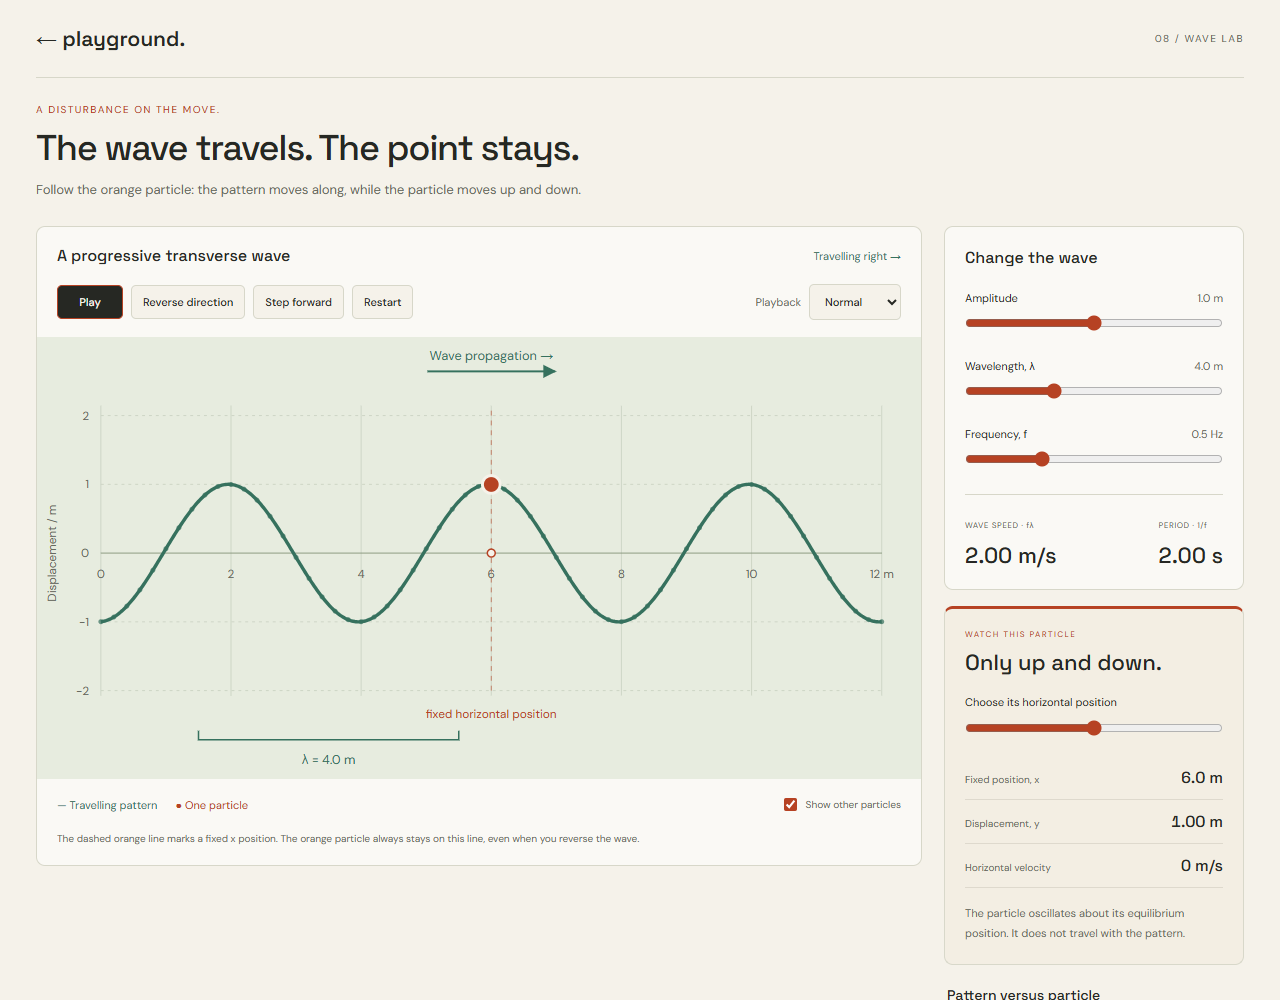
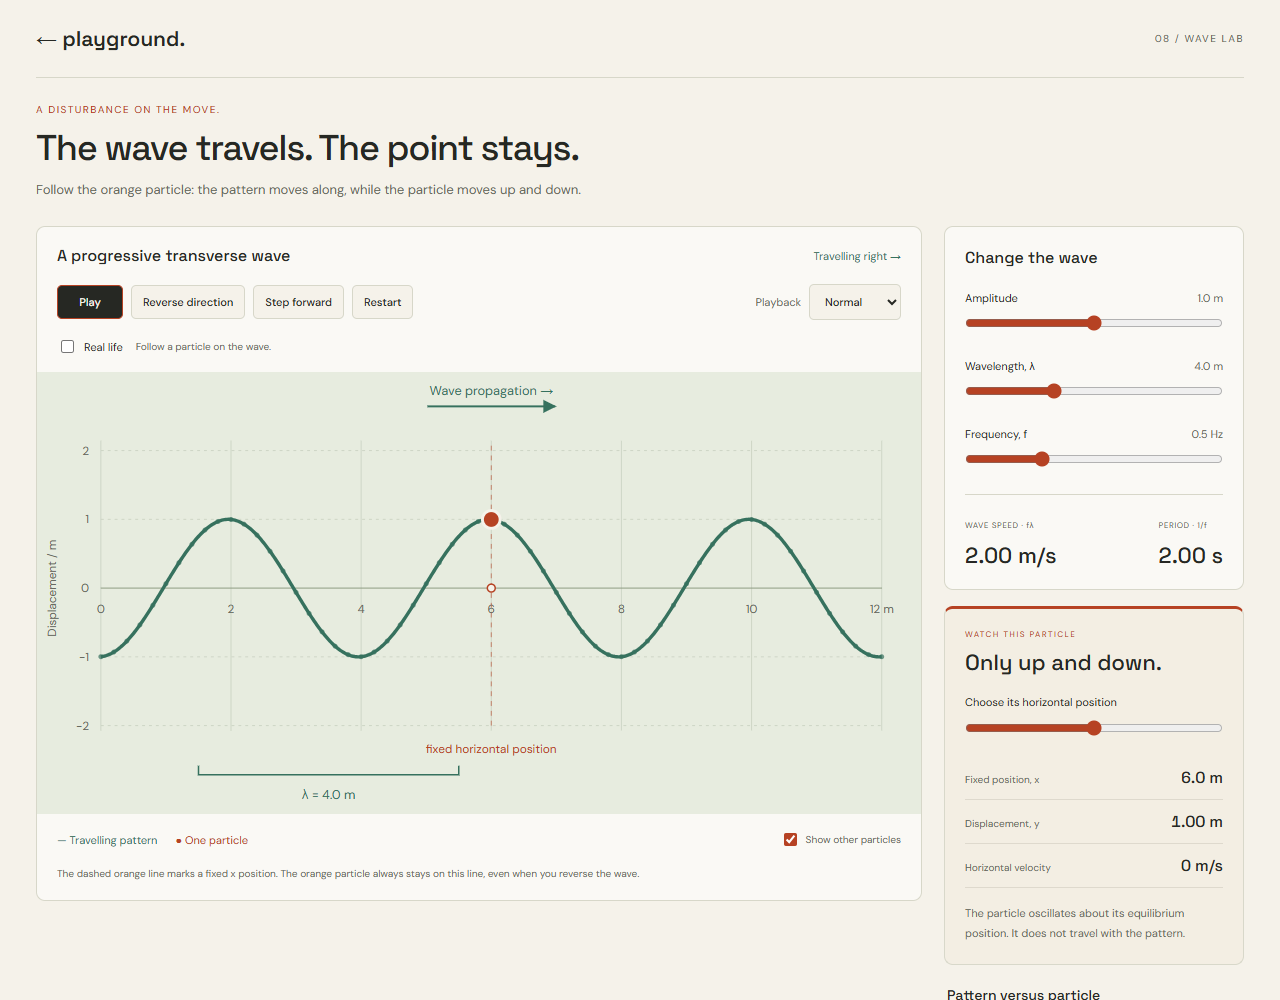
Add water-wave view with a vertically bobbing boat

diff --git a/waves/simulation.js b/waves/simulation.js
@@ -1,7 +1,7 @@
 (()=>{
  'use strict';
  const $=id=>document.getElementById(id),NS='http://www.w3.org/2000/svg',svg=$('wave'),small=matchMedia('(max-width:560px)');
- const state={amplitude:1,wavelength:4,frequency:.5,position:6,phase:0,time:0,direction:1,speed:1,running:!matchMedia('(prefers-reduced-motion:reduce)').matches};let last=null;
+ const state={amplitude:1,wavelength:4,frequency:.5,position:6,phase:0,time:0,direction:1,speed:1,realLife:false,running:!matchMedia('(prefers-reduced-motion:reduce)').matches};let last=null;
  const bounds={left:65,right:850},screenX=x=>bounds.left+x/12*(bounds.right-bounds.left),screenY=y=>220-y*70;
  const displacement=x=>state.amplitude*Math.sin(2*Math.PI*x/state.wavelength-state.phase);
  const format=n=>(Math.abs(n)<.0005?0:n).toFixed(2);
@@ -9,9 +9,10 @@
  function layout(){const width=small.matches?550:900;bounds.right=width-40;svg.setAttribute('viewBox',`0 0 ${width} 450`);const mid=(bounds.left+bounds.right)/2;$('direction-caption').setAttribute('x',mid);const g=$('grid');g.replaceChildren();for(let x=0;x<=12;x+=small.matches?3:2){const xx=screenX(x);g.append(node('line',{x1:xx,x2:xx,y1:70,y2:365,stroke:'#cdd5c5'}),node('text',{x:xx,y:245,fill:'#686a60','font-size':12,'text-anchor':'middle'},x===12?'12 m':String(x)));}for(let y=-2;y<=2;y++){const yy=screenY(y);g.append(node('line',{x1:bounds.left,x2:bounds.right,y1:yy,y2:yy,stroke:y?'#cdd5c5':'#8b9a80','stroke-dasharray':y?'3 4':''}),node('text',{x:bounds.left-12,y:yy+4,fill:'#686a60','font-size':12,'text-anchor':'end'},String(y)));}g.append(node('text',{x:19,y:220,fill:'#686a60','font-size':12,'text-anchor':'middle',transform:'rotate(-90 19 220)'},'Displacement / m'));render();}
  const particles=Array.from({length:61},(_,i)=>{const dot=node('circle',{r:2.5,fill:'#36715e',opacity:.7});$('particles').append(dot);return {x:i/5,dot};});
  function controls(){$('play').textContent=state.running?'Pause':'Play';$('step').disabled=state.running;const right=state.direction===1;$('travel-label').textContent=right?'Travelling right →':'← Travelling left';$('direction-caption').textContent=right?'Wave propagation →':'← Wave propagation';const mid=(bounds.left+bounds.right)/2;$('travel-arrow').setAttribute('x1',mid+(right?-65:65));$('travel-arrow').setAttribute('x2',mid+(right?65:-65));}
- function render(){let path='';for(let i=0;i<=600;i++){const x=12*i/600;path+=(i?'L':'M')+screenX(x).toFixed(2)+' '+screenY(displacement(x)).toFixed(2);} $('wave-path').setAttribute('d',path);for(const {x,dot}of particles){dot.setAttribute('cx',screenX(x));dot.setAttribute('cy',screenY(displacement(x)));}$('particles').style.display=$('show-particles').checked?'':'none';const xx=screenX(state.position);for(const id of ['particle-guide']){$(id).setAttribute('x1',xx);$(id).setAttribute('x2',xx);}$('equilibrium-point').setAttribute('cx',xx);$('selected-particle').setAttribute('cx',xx);$('selected-particle').setAttribute('cy',screenY(displacement(state.position)));$('fixed-label').setAttribute('x',Math.max(bounds.left+80,Math.min(bounds.right-80,xx)));const start=screenX(1.5),end=screenX(1.5+state.wavelength);$('wavelength-bracket').setAttribute('d',`M${start} 401V410H${end}V401`);$('wavelength-label').setAttribute('x',(start+end)/2);$('wavelength-label').textContent='λ = '+state.wavelength.toFixed(1)+' m';$('amplitude-value').textContent=state.amplitude.toFixed(1)+' m';$('wavelength-value').textContent=state.wavelength.toFixed(1)+' m';$('frequency-value').textContent=state.frequency.toFixed(1)+' Hz';$('wave-speed').textContent=format(state.frequency*state.wavelength)+' m/s';$('period').textContent=format(1/state.frequency)+' s';$('particle-x').textContent=state.position.toFixed(1)+' m';$('particle-y').textContent=format(displacement(state.position))+' m';controls();}
+ function render(){let path='';for(let i=0;i<=600;i++){const x=12*i/600;path+=(i?'L':'M')+screenX(x).toFixed(2)+' '+screenY(displacement(x)).toFixed(2);} let waterPath='';if(state.realLife){const width=small.matches?550:900;for(let i=0;i<=600;i++){const pixel=width*i/600,x=12*(pixel-bounds.left)/(bounds.right-bounds.left);waterPath+=(i?'L':'M')+pixel.toFixed(2)+' '+screenY(displacement(x)).toFixed(2);}$('water-fill').setAttribute('d',waterPath+'L'+width+' 450L0 450Z');}$('wave-path').setAttribute('d',state.realLife?waterPath:path);for(const {x,dot}of particles){dot.setAttribute('cx',screenX(x));dot.setAttribute('cy',screenY(displacement(x)));}$('particles').style.display=$('show-particles').checked?'':'none';const xx=screenX(state.position);for(const id of ['particle-guide']){$(id).setAttribute('x1',xx);$(id).setAttribute('x2',xx);}$('equilibrium-point').setAttribute('cx',xx);$('selected-particle').setAttribute('cx',xx);$('selected-particle').setAttribute('cy',screenY(displacement(state.position)));$('boat').setAttribute('transform',`translate(${xx} ${screenY(displacement(state.position))})`);$('sun').setAttribute('cx',bounds.right-38);$('fixed-label').setAttribute('x',Math.max(bounds.left+80,Math.min(bounds.right-80,xx)));const start=screenX(1.5),end=screenX(1.5+state.wavelength);$('wavelength-bracket').setAttribute('d',`M${start} 401V410H${end}V401`);$('wavelength-label').setAttribute('x',(start+end)/2);$('wavelength-label').textContent='λ = '+state.wavelength.toFixed(1)+' m';$('amplitude-value').textContent=state.amplitude.toFixed(1)+' m';$('wavelength-value').textContent=state.wavelength.toFixed(1)+' m';$('frequency-value').textContent=state.frequency.toFixed(1)+' Hz';$('wave-speed').textContent=format(state.frequency*state.wavelength)+' m/s';$('period').textContent=format(1/state.frequency)+' s';$('particle-x').textContent=state.position.toFixed(1)+' m';$('particle-y').textContent=format(displacement(state.position))+' m';controls();}
+ function view(){const real=state.realLife;svg.classList.toggle('real-life',real);$('scene-heading').textContent=real?'A water wave and a bobbing boat':'A progressive transverse wave';$('view-note').textContent=real?'A boat held at a fixed horizontal position.':'Follow a particle on the wave.';$('wave-title').textContent=real?'A boat bobbing vertically as a water wave passes':'Travelling wave with a fixed highlighted particle';$('wave-description').textContent=real?'A water-wave illustration with a boat held at a fixed horizontal position. It follows the surface up and down without drifting or rotating.':'The wave pattern travels horizontally. The highlighted orange particle stays at the same horizontal position and oscillates vertically along a dashed guide.';$('pattern-key').textContent=real?'— Travelling water surface':'— Travelling pattern';$('point-key').textContent=real?'● Bobbing boat':'● One particle';$('point-eyebrow').textContent=real?'WATCH THIS BOAT':'WATCH THIS PARTICLE';$('point-explanation').textContent=real?'The boat follows the surface vertically and stays at the chosen x position. This is a simplified bobbing model with no horizontal drift or rocking.':'The particle oscillates about its equilibrium position. It does not travel with the pattern.';$('board-note').textContent=real?'Watch the boat rise and fall as the crests pass underneath. It is held at a fixed horizontal position; this illustration models vertical bobbing only.':'The dashed orange line marks a fixed x position. The orange particle always stays on this line, even when you reverse the wave.';}
  function advance(seconds){state.time+=seconds;state.phase=(state.phase+state.direction*2*Math.PI*state.frequency*seconds)%(2*Math.PI);}
- for(const id of ['amplitude','wavelength','frequency','position'])$(id).addEventListener('input',e=>{state[id]=Number(e.target.value);render();});$('speed').addEventListener('change',e=>{state.speed=Number(e.target.value);last=null;});$('show-particles').addEventListener('change',render);
+ for(const id of ['amplitude','wavelength','frequency','position'])$(id).addEventListener('input',e=>{state[id]=Number(e.target.value);render();});$('speed').addEventListener('change',e=>{state.speed=Number(e.target.value);last=null;});$('show-particles').addEventListener('change',render);$('real-life').addEventListener('change',e=>{state.realLife=e.target.checked;view();render();});
  $('play').addEventListener('click',()=>{state.running=!state.running;last=null;render();});$('reverse').addEventListener('click',()=>{state.direction*=-1;last=null;render();});$('step').addEventListener('click',()=>{if(state.running)return;advance(1/30);render();});$('restart').addEventListener('click',()=>{state.phase=0;state.time=0;last=null;render();});
  function frame(now){if(last!==null&&state.running&&!document.hidden){advance(Math.min((now-last)/1000,.1)*state.speed);render();}last=now;requestAnimationFrame(frame);}document.addEventListener('visibilitychange',()=>{last=null;});small.addEventListener('change',layout);
  layout();requestAnimationFrame(frame);window.waveLab={state,displacement,advance,screenX,screenY};

diff --git a/waves/index.html b/waves/index.html
@@ -1,18 +1,21 @@
 <!doctype html>
-<html lang="en"><head><meta charset="utf-8"><meta name="viewport" content="width=device-width,initial-scale=1"><title>Wave lab · Playground</title><meta name="description" content="Explore a progressive transverse wave and see a fixed particle oscillate up and down. Pause, reverse and step through the motion."><link rel="icon" href="../favicon.svg"><link rel="stylesheet" href="style.css?v=1"></head>
+<html lang="en"><head><meta charset="utf-8"><meta name="viewport" content="width=device-width,initial-scale=1"><title>Wave lab · Playground</title><meta name="description" content="Explore a progressive transverse wave and see a fixed particle oscillate up and down. Pause, reverse and step through the motion."><link rel="icon" href="../favicon.svg"><link rel="stylesheet" href="style.css?v=2"></head>
 <body><main><header><a href="../">← playground.</a><span>08 / WAVE LAB</span></header>
 <section class="heading"><p class="eyebrow">A DISTURBANCE ON THE MOVE.</p><h1>The wave travels. The point stays.</h1><p>Follow the orange particle: the pattern moves along, while the particle moves up and down.</p></section>
-<div class="workspace"><section class="board"><div class="panel-heading"><h2>A progressive transverse wave</h2><span id="travel-label">Travelling right →</span></div>
+<div class="workspace"><section class="board"><div class="panel-heading"><h2 id="scene-heading">A progressive transverse wave</h2><span id="travel-label">Travelling right →</span></div>
 <div class="playback"><button id="play" type="button">Pause</button><button id="reverse" type="button">Reverse direction</button><button id="step" type="button" disabled>Step forward</button><button id="restart" type="button">Restart</button><label>Playback <select id="speed"><option value="0.25">¼ speed</option><option value="0.5">½ speed</option><option value="1" selected>Normal</option><option value="2">2× speed</option></select></label></div>
+<div class="view-controls"><label class="view-toggle"><input id="real-life" type="checkbox"> <span>Real life</span></label><span id="view-note">Follow a particle on the wave.</span></div>
 <svg id="wave" viewBox="0 0 900 450" role="img" aria-labelledby="wave-title wave-description"><title id="wave-title">Travelling wave with a fixed highlighted particle</title><desc id="wave-description">The wave pattern travels horizontally. The highlighted orange particle stays at the same horizontal position and oscillates vertically along a dashed guide.</desc>
 <defs><marker id="travel-head" viewBox="0 0 12 12" refX="10" refY="6" markerWidth="8" markerHeight="8" orient="auto"><path d="M1 1L11 6L1 11Z" fill="#36715e"/></marker></defs>
-<g id="grid"></g><line id="travel-arrow" y1="35" y2="35" x1="360" x2="540" stroke="#36715e" stroke-width="2" marker-end="url(#travel-head)"/><text id="direction-caption" x="450" y="23" text-anchor="middle">Wave propagation →</text>
+<defs><linearGradient id="water-gradient" x1="0" y1="0" x2="0" y2="1"><stop offset="0" stop-color="#71b3ba"/><stop offset="1" stop-color="#367482"/></linearGradient></defs>
+<g id="water-sky" class="real-life-scene" aria-hidden="true"><circle id="sun" cy="57" r="24" fill="#e6c57f"/><g fill="#fffdf5" opacity=".85"><path d="M87 68a14 14 0 0 1 24-11a19 19 0 0 1 36 5a13 13 0 0 1 20 13H87Z"/><path d="M204 100a10 10 0 0 1 17-8a14 14 0 0 1 26 4a9 9 0 0 1 15 9H204Z"/></g></g>
+<g id="grid"></g><path id="water-fill" class="real-life-scene" fill="url(#water-gradient)" aria-hidden="true"/><line id="travel-arrow" y1="35" y2="35" x1="360" x2="540" stroke="#36715e" stroke-width="2" marker-end="url(#travel-head)"/><text id="direction-caption" x="450" y="23" text-anchor="middle">Wave propagation →</text>
 <line id="particle-guide" y1="75" y2="365"/><circle id="equilibrium-point" cy="220" r="4"/><path id="wave-path" fill="none" stroke="#36715e" stroke-width="3.5"/>
-<g id="particles"></g><circle id="selected-particle" r="9"/><text id="fixed-label" y="388" text-anchor="middle">fixed horizontal position</text>
+<g id="particles"></g><circle id="selected-particle" r="9"/><g id="boat" class="real-life-scene" aria-label="Boat held at a fixed horizontal position"><path d="M-34-8H35L23 12H-23Z" fill="#b64223" stroke="#8b3c28" stroke-width="1.5"/><path d="M-32-8H33" stroke="#f5e6c7" stroke-width="4"/><rect x="-18" y="-28" width="29" height="18" rx="3" fill="#f5f2ea" stroke="#bdac8e"/><rect x="-13" y="-24" width="8" height="8" rx="1" fill="#5293a1"/><rect x="0" y="-24" width="7" height="8" rx="1" fill="#5293a1"/><path d="M16-8V-43" stroke="#716951" stroke-width="2"/><path d="M17-42L34-35L17-29Z" fill="#dc9b43"/><circle cx="-24" cy="0" r="3" fill="#f5e6c7"/><circle cx="25" cy="0" r="3" fill="#f5e6c7"/></g><text id="fixed-label" y="388" text-anchor="middle">fixed horizontal position</text>
 <g id="wavelength-guide"><path id="wavelength-bracket" fill="none"/><text id="wavelength-label" y="435" text-anchor="middle"></text></g></svg>
-<div class="legend"><span class="wave-key">— Travelling pattern</span><span class="point-key">● One particle</span><label><input id="show-particles" type="checkbox" checked> Show other particles</label></div><p class="board-note">The dashed orange line marks a fixed x position. The orange particle always stays on this line, even when you reverse the wave.</p></section>
+<div class="legend"><span class="wave-key" id="pattern-key">— Travelling pattern</span><span class="point-key" id="point-key">● One particle</span><label id="particles-control"><input id="show-particles" type="checkbox" checked> Show other particles</label></div><p class="board-note" id="board-note">The dashed orange line marks a fixed x position. The orange particle always stays on this line, even when you reverse the wave.</p></section>
 <aside><section class="settings"><h2>Change the wave</h2><label for="amplitude">Amplitude <output id="amplitude-value"></output></label><input id="amplitude" type="range" min="0" max="2" step="0.1" value="1"><label for="wavelength">Wavelength, λ <output id="wavelength-value"></output></label><input id="wavelength" type="range" min="2" max="8" step="0.2" value="4"><label for="frequency">Frequency, f <output id="frequency-value"></output></label><input id="frequency" type="range" min="0.1" max="1.5" step="0.1" value="0.5"><div class="readouts"><div><span>WAVE SPEED · fλ</span><strong id="wave-speed"></strong></div><div><span>PERIOD · 1/f</span><strong id="period"></strong></div></div></section>
-<section class="point-card"><p class="eyebrow">WATCH THIS PARTICLE</p><h2>Only up and down.</h2><label for="position">Choose its horizontal position</label><input id="position" type="range" min="0.5" max="11.5" step="0.1" value="6"><dl><div><dt>Fixed position, x</dt><dd id="particle-x"></dd></div><div><dt>Displacement, y</dt><dd id="particle-y"></dd></div><div><dt>Horizontal velocity</dt><dd>0 m/s</dd></div></dl><p>The particle oscillates about its equilibrium position. It does not travel with the pattern.</p></section>
+<section class="point-card"><p class="eyebrow" id="point-eyebrow">WATCH THIS PARTICLE</p><h2>Only up and down.</h2><label for="position">Choose its horizontal position</label><input id="position" type="range" min="0.5" max="11.5" step="0.1" value="6"><dl><div><dt>Fixed position, x</dt><dd id="particle-x"></dd></div><div><dt>Displacement, y</dt><dd id="particle-y"></dd></div><div><dt>Horizontal velocity</dt><dd>0 m/s</dd></div></dl><p id="point-explanation">The particle oscillates about its equilibrium position. It does not travel with the pattern.</p></section>
 <div class="reading"><h2>Pattern versus particle</h2><p>A transverse wave transfers energy along the medium, while the particles move perpendicular to that direction.</p><p>Pause to inspect a snapshot, step through the motion, or reverse the propagation. Reversing keeps the wave’s current shape continuous.</p></div></aside></div>
 <footer><p><strong>Wave model:</strong> y(x, t) = A sin(2πx/λ − φ), with dφ/dt = ±2πf. The sign controls the direction of propagation. A particle at fixed x oscillates with period T = 1/f.</p><p>This is an ideal sinusoidal transverse wave on an unbounded medium: no damping or reflections. Distances are in metres, time in seconds. Playback speed changes how quickly simulated time advances. Changing A or λ changes the shape immediately.</p></footer>
-</main><script src="simulation.js?v=1"></script></body></html>
+</main><script src="simulation.js?v=2"></script></body></html>

diff --git a/waves/style.css b/waves/style.css
@@ -1,2 +1,4 @@
 @import url('https://fonts.googleapis.com/css2?family=DM+Sans:wght@400;500;600;700&family=Space+Grotesk:wght@400;500;600&display=swap');
 :root{color-scheme:light;--paper:#f5f2ea;--ink:#262823;--muted:#686a60;--line:#d7d7c9;--orange:#b64223;--green:#36715e}*{box-sizing:border-box}body{margin:0;background:var(--paper);color:var(--ink);font-family:'DM Sans',sans-serif}main{max-width:1400px;margin:auto;padding:0 36px}header{height:78px;border-bottom:1px solid var(--line);display:flex;justify-content:space-between;align-items:center;gap:12px}header a{font:600 21px 'Space Grotesk',sans-serif;color:inherit;text-decoration:none}header>span,.eyebrow{font-size:10px;letter-spacing:1.5px;color:var(--muted)}.heading{padding:25px 0}.eyebrow{color:var(--orange);margin:0 0 9px}h1{font:500 36px 'Space Grotesk',sans-serif;letter-spacing:-1.3px;margin:0 0 8px}.heading>p:last-child{font-size:13px;color:var(--muted);margin:0;line-height:1.7}.workspace{display:grid;grid-template-columns:minmax(0,1fr) 300px;gap:22px;align-items:start}.board,.settings,.point-card{background:#faf9f5;border:1px solid var(--line);border-radius:9px;overflow:hidden}h2{font:500 16px 'Space Grotesk',sans-serif;margin:0}.panel-heading{padding:18px 20px;display:flex;align-items:center;justify-content:space-between;gap:12px}.panel-heading>span{font-size:11px;color:var(--green)}.playback{display:flex;align-items:center;gap:8px;flex-wrap:wrap;padding:0 20px 17px}button,select{font:500 11px 'DM Sans',sans-serif;padding:9px 11px;border:1px solid var(--line);border-radius:5px;background:var(--paper);color:var(--ink)}button{cursor:pointer}button:hover:not(:disabled){color:var(--orange);border-color:var(--orange)}button:disabled{opacity:.4;cursor:default}#play{background:var(--ink);color:var(--paper);min-width:66px}.playback label{margin-left:auto;display:flex;align-items:center;gap:8px;font-size:11px;color:var(--muted)}#wave{display:block;width:100%;height:auto;min-height:330px;background:#e7ecdf;font-family:'DM Sans',sans-serif}#direction-caption{fill:var(--green);font-size:13px}#particle-guide{stroke:var(--orange);stroke-dasharray:5 5;opacity:.6}#equilibrium-point{fill:var(--paper);stroke:var(--orange);stroke-width:1.5}#selected-particle{fill:var(--orange);stroke:var(--paper);stroke-width:3}#fixed-label{fill:var(--orange);font-size:12px}#wavelength-bracket{stroke:var(--green);stroke-width:1.5}#wavelength-label{fill:var(--green);font-size:13px}.legend{display:flex;gap:18px;align-items:center;flex-wrap:wrap;padding:16px 20px;font-size:11px}.wave-key{color:var(--green)}.point-key{color:var(--orange)}.legend label{display:flex;align-items:center;gap:6px;margin-left:auto;color:var(--muted);font-size:10px}input[type=checkbox],input[type=range]{accent-color:var(--orange)}.board-note{padding:0 20px 17px;margin:0;color:var(--muted);font-size:10px;line-height:1.8}.settings,.point-card{padding:20px;margin-bottom:16px}.settings>label{display:block;font-size:11px;margin:23px 0 10px}output{float:right;color:var(--muted)}input[type=range]{width:100%;margin:0}.readouts{display:flex;justify-content:space-between;border-top:1px solid var(--line);padding-top:17px;margin-top:22px;gap:12px}.readouts span{font-size:8px;color:var(--muted);letter-spacing:.6px}.readouts strong{display:block;font:500 22px 'Space Grotesk',sans-serif;margin-top:8px}.point-card{border-top:3px solid var(--orange);background:#f3eee3}.point-card>.eyebrow{font-size:8px}.point-card h2{font-size:22px}.point-card>label{display:block;font-size:11px;margin:19px 0 11px}dl{margin:15px 0 0}dl>div{display:flex;justify-content:space-between;gap:12px;padding:11px 0;border-bottom:1px solid #ded9cd;align-items:baseline}dt{font-size:10px;color:var(--muted)}dd{margin:0;font:500 16px 'Space Grotesk',sans-serif;font-variant-numeric:tabular-nums}.point-card p:last-child,.reading p{font-size:11px;line-height:1.8;color:var(--muted)}.point-card p:last-child{margin:16px 0 0}.reading{padding:5px 3px}.reading h2{font-size:14px}footer{border-top:1px solid var(--line);margin-top:24px;padding:12px 0 24px;display:grid;grid-template-columns:1fr 1fr;gap:28px;font-size:10px;line-height:1.8;color:var(--muted)}footer strong{color:var(--ink)}:focus-visible{outline:3px solid var(--orange);outline-offset:3px}@media(max-width:950px){main{padding:0 22px}.workspace{grid-template-columns:1fr}aside{display:grid;grid-template-columns:1fr 1fr;gap:16px}.settings,.point-card{margin:0}.reading{grid-column:1/-1}.playback label{margin-left:0}}@media(max-width:560px){main{padding:0 14px}header{height:65px}header>span{font-size:8px;letter-spacing:1px}h1{font-size:30px}.heading{padding:22px 0}.panel-heading{padding:16px 12px;align-items:flex-start}.panel-heading h2{max-width:60%;line-height:1.5;font-size:14px}.panel-heading>span{font-size:10px;white-space:nowrap;padding-top:3px}.playback{padding:0 12px 14px;gap:6px}.legend{padding:14px 12px;gap:12px}.legend label{margin-left:0;width:100%}.board-note{padding:0 12px 14px}aside{display:block}.settings,.point-card{margin-bottom:14px}footer{grid-template-columns:1fr;gap:0}}
+
+.view-controls{display:flex;align-items:center;gap:13px;padding:0 20px 16px;font-size:11px}.view-toggle{display:flex;align-items:center;gap:7px;cursor:pointer}.view-toggle input{accent-color:var(--orange)}#view-note{color:var(--muted);font-size:10px}.real-life-scene{display:none}#wave.real-life{background:#edf3ed}#wave.real-life .real-life-scene{display:inline}#wave.real-life #grid,#wave.real-life #particles,#wave.real-life #selected-particle,#wave.real-life #equilibrium-point,#wave.real-life #wavelength-guide{display:none!important}#wave.real-life #wave-path{stroke:#eff8ed;stroke-width:3}#wave.real-life #particle-guide{stroke:#f3d89d;opacity:.5}#wave.real-life #fixed-label{fill:#fff3d4;paint-order:stroke;stroke:#397e88;stroke-width:3px;stroke-linejoin:round}#wave.real-life~.legend #particles-control{display:none}#boat{pointer-events:none}@media(max-width:560px){.view-controls{padding:0 12px 14px;align-items:flex-start}.view-toggle{white-space:nowrap}#view-note{line-height:1.6}}

diff --git a/README.md b/README.md
@@ -6,7 +6,9 @@ A static home for browser experiments: electron diffraction, Quickdraw, Motion L
 
 Open `waves/` for a progressive sinusoidal transverse wave. An orange particle stays at a fixed x coordinate and oscillates vertically on a dashed guide. Other medium particles also keep their horizontal positions. Pause/play, reverse direction without a displacement jump, step through paused motion, restart, and change playback speed. Adjust amplitude, wavelength, frequency and the selected particle's x position. Wave speed and period use v = fλ and T = 1/f.
 
-The wave is y = A sin(2πx/λ − phase), with phase advancing at ±2πf per simulated second. It represents an unbounded medium without reflections or damping. Parameter edits preserve phase; restart resets phase and time while preserving controls. Hidden tabs suspend playback, and reduced-motion preferences start it paused. `tests/waves.cjs` checks propagation direction, fixed particle positions, pause/reverse/step, parameters, playback speed, mobile layout and navigation.
+Toggle **Real life** to show an illustrated water surface and a boat held at the selected horizontal position. The boat follows the surface vertically without drift or rocking; this is an idealised bobbing illustration, not a full water-wave or boat-dynamics model. Switching views preserves the wave phase and playback controls.
+
+The wave is y = A sin(2πx/λ − phase), with phase advancing at ±2πf per simulated second. It represents an unbounded medium without reflections or damping. Parameter edits preserve phase; restart resets phase and time while preserving controls. Hidden tabs suspend playback, and reduced-motion preferences start it paused. `tests/waves.cjs` checks propagation direction, fixed particle/boat positions, surface-following motion, view switching, pause/reverse/step, parameters, playback speed, mobile layout and navigation.
 
 ## Vector Lab
 
